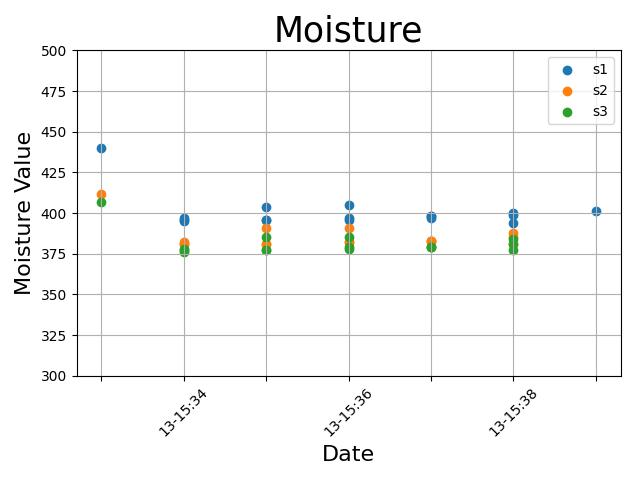
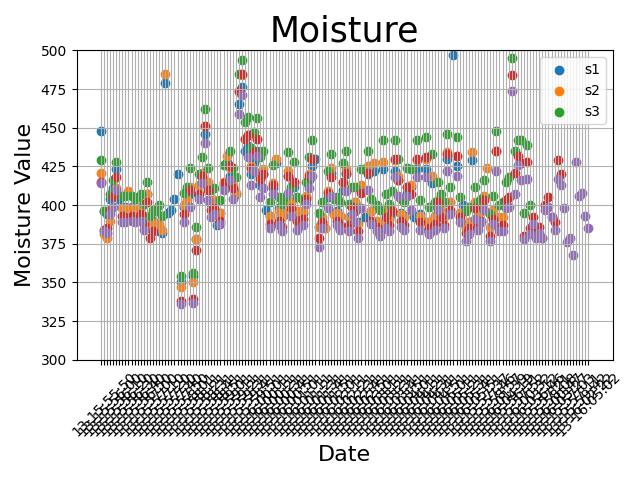
Single Line Print

diff --git a/MoistureEvaluationPython/DataHandeling.py b/MoistureEvaluationPython/DataHandeling.py
@@ -6,14 +6,11 @@ import smtplib
 from email.mime.image import MIMEImage
 from email.mime.multipart import MIMEMultipart
 from email.mime.text import MIMEText
-from email.mime.base import MIMEBase
-from email import encoders
 from socket import gethostbyname, gaierror
 import SQLHandler
+import re
 
-import numpy as np
 import pandas as pd
-import matplotlib as mpl
 import matplotlib.pyplot as plt
 import seaborn as sns
 import serial
@@ -55,16 +52,39 @@ def openSQL():
 def safeSQL(conSQL):
     conSQL.commit()
 
+def dataStringSplit(datastring):
+    splitPositions = re.finditer(datastring, ";")
+    dataDict = {}
+    lastIndex = 0
+    sensor = ""
+    value = ""
+    for i in range(len(splitPositions)):
+        if i < len(splitPositions):
+            data = datastring[lastIndex + 1:splitPositions[i]+1]
+            lastIndex = splitPositions[i]
+        elif i == len(splitPositions):
+            data = datastring[lastIndex+1:]
+        sensor, value = dataStringSplitColon(data)
+        dataDict[sensor] = value
+
+    return dataDict
+
+def dataStringSplitColon(dataString):
+    splitPosition = dataString.find(":")
+    sensor = dataString[:splitPosition-1]
+    value = dataString[splitPosition+1:]
+    return sensor, value
 
 def receivingDateLoop():
     #ser = serial.Serial('/dev/ttyACM0', 9600)
-    serialString = "COM5"
+    #serialString = "COM5"
+    serialString = '/dev/ttyACM0'
     serialNumber = 9600
     ser = serial.Serial(serialString, serialNumber)
     time.sleep(2)
     runningNumber = 0
     SQLHandlerObject = SQLHandler.SQLHandler()
-    schedule.every(2).minutes.do(scheduleTask, sqlHandler = SQLHandlerObject)
+    schedule.every(1).minutes.do(scheduleTask, sqlHandler = SQLHandlerObject)
     schedule.every(10).minutes.do(scheduleTaskWeekly, sqlHandler = SQLHandlerObject)
     connectionSQL = SQLHandlerObject.getSQL()
     cursor = connectionSQL.cursor()
@@ -74,32 +94,43 @@ def receivingDateLoop():
 
     #schedule.every(2).minutes.do(do_something, number = runningNumber, sql = connectionSQL)
 
-    runningNumber = runningNumber + 1
+    lastEntry = "SELECT LAST _number FROM moist;"
+    runningNumber = cursor.execute(lastEntry) + 1
+
+
+
+
     while True:
         try:
             line = ser.readline()  # read a byte
             if line:
-                times = datetime.now().strftime('%d-%H:%M')    #'%d.%m-%H:%M:%S')
+                times = datetime.now().strftime('%d-%H:%M:%S')    #'%d.%m-%H:%M:%S')
                 string = line.decode()  # convert the byte string to a unicode string
-                humidity = int(string[3:])  # convert the unicode string to an int
-                sensor = string[0:2]
+                #humidity = int(string[3:])  # convert the unicode string to an int
+                #sensor = string[0:2]
+                sensorDict = dataStringSplit(string)
+
+
                 format_str_v1 = """INSERT INTO moist """
                 format_str_v3 = """INSERT INTO weekly """
                 format_str_v2 = """(_number, _time, _sensor, _humidity) 
                                 VALUES ("{_number}", "{_time}", "{_sensor}","{_humidity}");"""
 
 
+                for each in list(sensorDict.keys()):
+                    sensor = each
+                    humidity = sensorDict.get(each)
 
-                sql_command = format_str_v2.format(_number = runningNumber,  _time = times, _sensor = sensor, _humidity = humidity)
+                    sql_command = format_str_v2.format(_number = runningNumber,  _time = times, _sensor = sensor, _humidity = humidity)
 
-                cursor.execute(format_str_v1 + sql_command)
-                weeklyCursor.execute(format_str_v3 + sql_command)
-                runningNumber = runningNumber + 1
+                    cursor.execute(format_str_v1 + sql_command)
+                    weeklyCursor.execute(format_str_v3 + sql_command)
+                    runningNumber = runningNumber + 1
 
 
                 #print(humidity)
                 if runningNumber%10 == 0:
-                    time.sleep(1)
+                    #time.sleep(1)
                     #safeSQL(connectionSQL)
                     SQLHandlerObject.setSQL(connectionSQL)
                     SQLHandlerObject.safeSQL()
@@ -175,9 +206,13 @@ def evaluateData(sqlHandler, table, filename):
     s1Index = []
     s2Index = []
     s3Index = []
+    s4Index = []
+    s5Index = []
     sx1Axes = []
     sx2Axes = []
     sx3Axes = []
+    sx4Axes = []
+    sx5Axes = []
 
     count = 0
     for count, item in enumerate(TM1['_sensor'].str.findall('s1'), start = 0):
@@ -197,12 +232,26 @@ def evaluateData(sqlHandler, table, filename):
             s3Index.append(TM1['_humidity'][count])
             sx3Axes.append(TM1['_time'][count])
 
+    count = 0
+    for count, item in enumerate(TM1['_sensor'].str.findall('s4'), start = 0):
+        if item:
+            s4Index.append(TM1['_humidity'][count])
+            sx4Axes.append(TM1['_time'][count])
+
+    count = 0
+    for count, item in enumerate(TM1['_sensor'].str.findall('s5'), start = 0):
+        if item:
+            s5Index.append(TM1['_humidity'][count])
+            sx5Axes.append(TM1['_time'][count])
+
     print(sx1Axes)
     print(s2Index)
     scatterplot = plt.scatter(sx1Axes[:len(s1Index)], s1Index)
     ax = plt.gca()
     plt.scatter(sx2Axes[:len(s2Index)], s2Index)
     plt.scatter(sx3Axes[:len(s3Index)], s3Index)
+    plt.scatter(sx4Axes[:len(s4Index)], s4Index)
+    plt.scatter(sx5Axes[:len(s5Index)], s5Index)
     #plt.scatter( TM1['_number'], TM1['_humidity'])
     plt.xlabel("Date", fontsize = 16)
     plt.ylabel("Moisture Value", fontsize = 16)
@@ -212,7 +261,7 @@ def evaluateData(sqlHandler, table, filename):
     plt.setp(ax.get_xticklabels()[::2], visible = False)
     plt.grid()
     ax.set_ylim([300, 500])
-    plt.legend(["s1", "s2", "s3"])
+    plt.legend(["s1", "s2", "s3", "s4", "s5"])
     plt.savefig("{}.jpg".format(filename))
     plt.close()
 
@@ -251,10 +300,10 @@ def sendDataMail(filename):
 
 
 if __name__ == "__main__":
-    #receivingDateLoop()
-    weeklySQL = sqlite3.connect("weeklySQL.db")
-    weeklyCursor = weeklySQL.cursor()
-    evaluateData(weeklySQL, "weekly", "weekly")
+    receivingDateLoop()
+    #weeklySQL = sqlite3.connect("weeklySQL.db")
+    #weeklyCursor = weeklySQL.cursor()
+    #evaluateData(weeklySQL, "weekly", "weekly")
 
 
 

diff --git a/MoistureEvaluationPython/SQLHandler.py b/MoistureEvaluationPython/SQLHandler.py
@@ -25,8 +25,8 @@ class SQLHandler:
             cursor.execute(sql_command)
         except sqlite3.OperationalError:
             print("Table already existing")
-            sql_command = """DELETE FROM moist"""
-            cursor.execute(sql_command)
+            #sql_command = """DELETE FROM moist"""
+            #cursor.execute(sql_command)
 
 
     def safeSQL(self):
